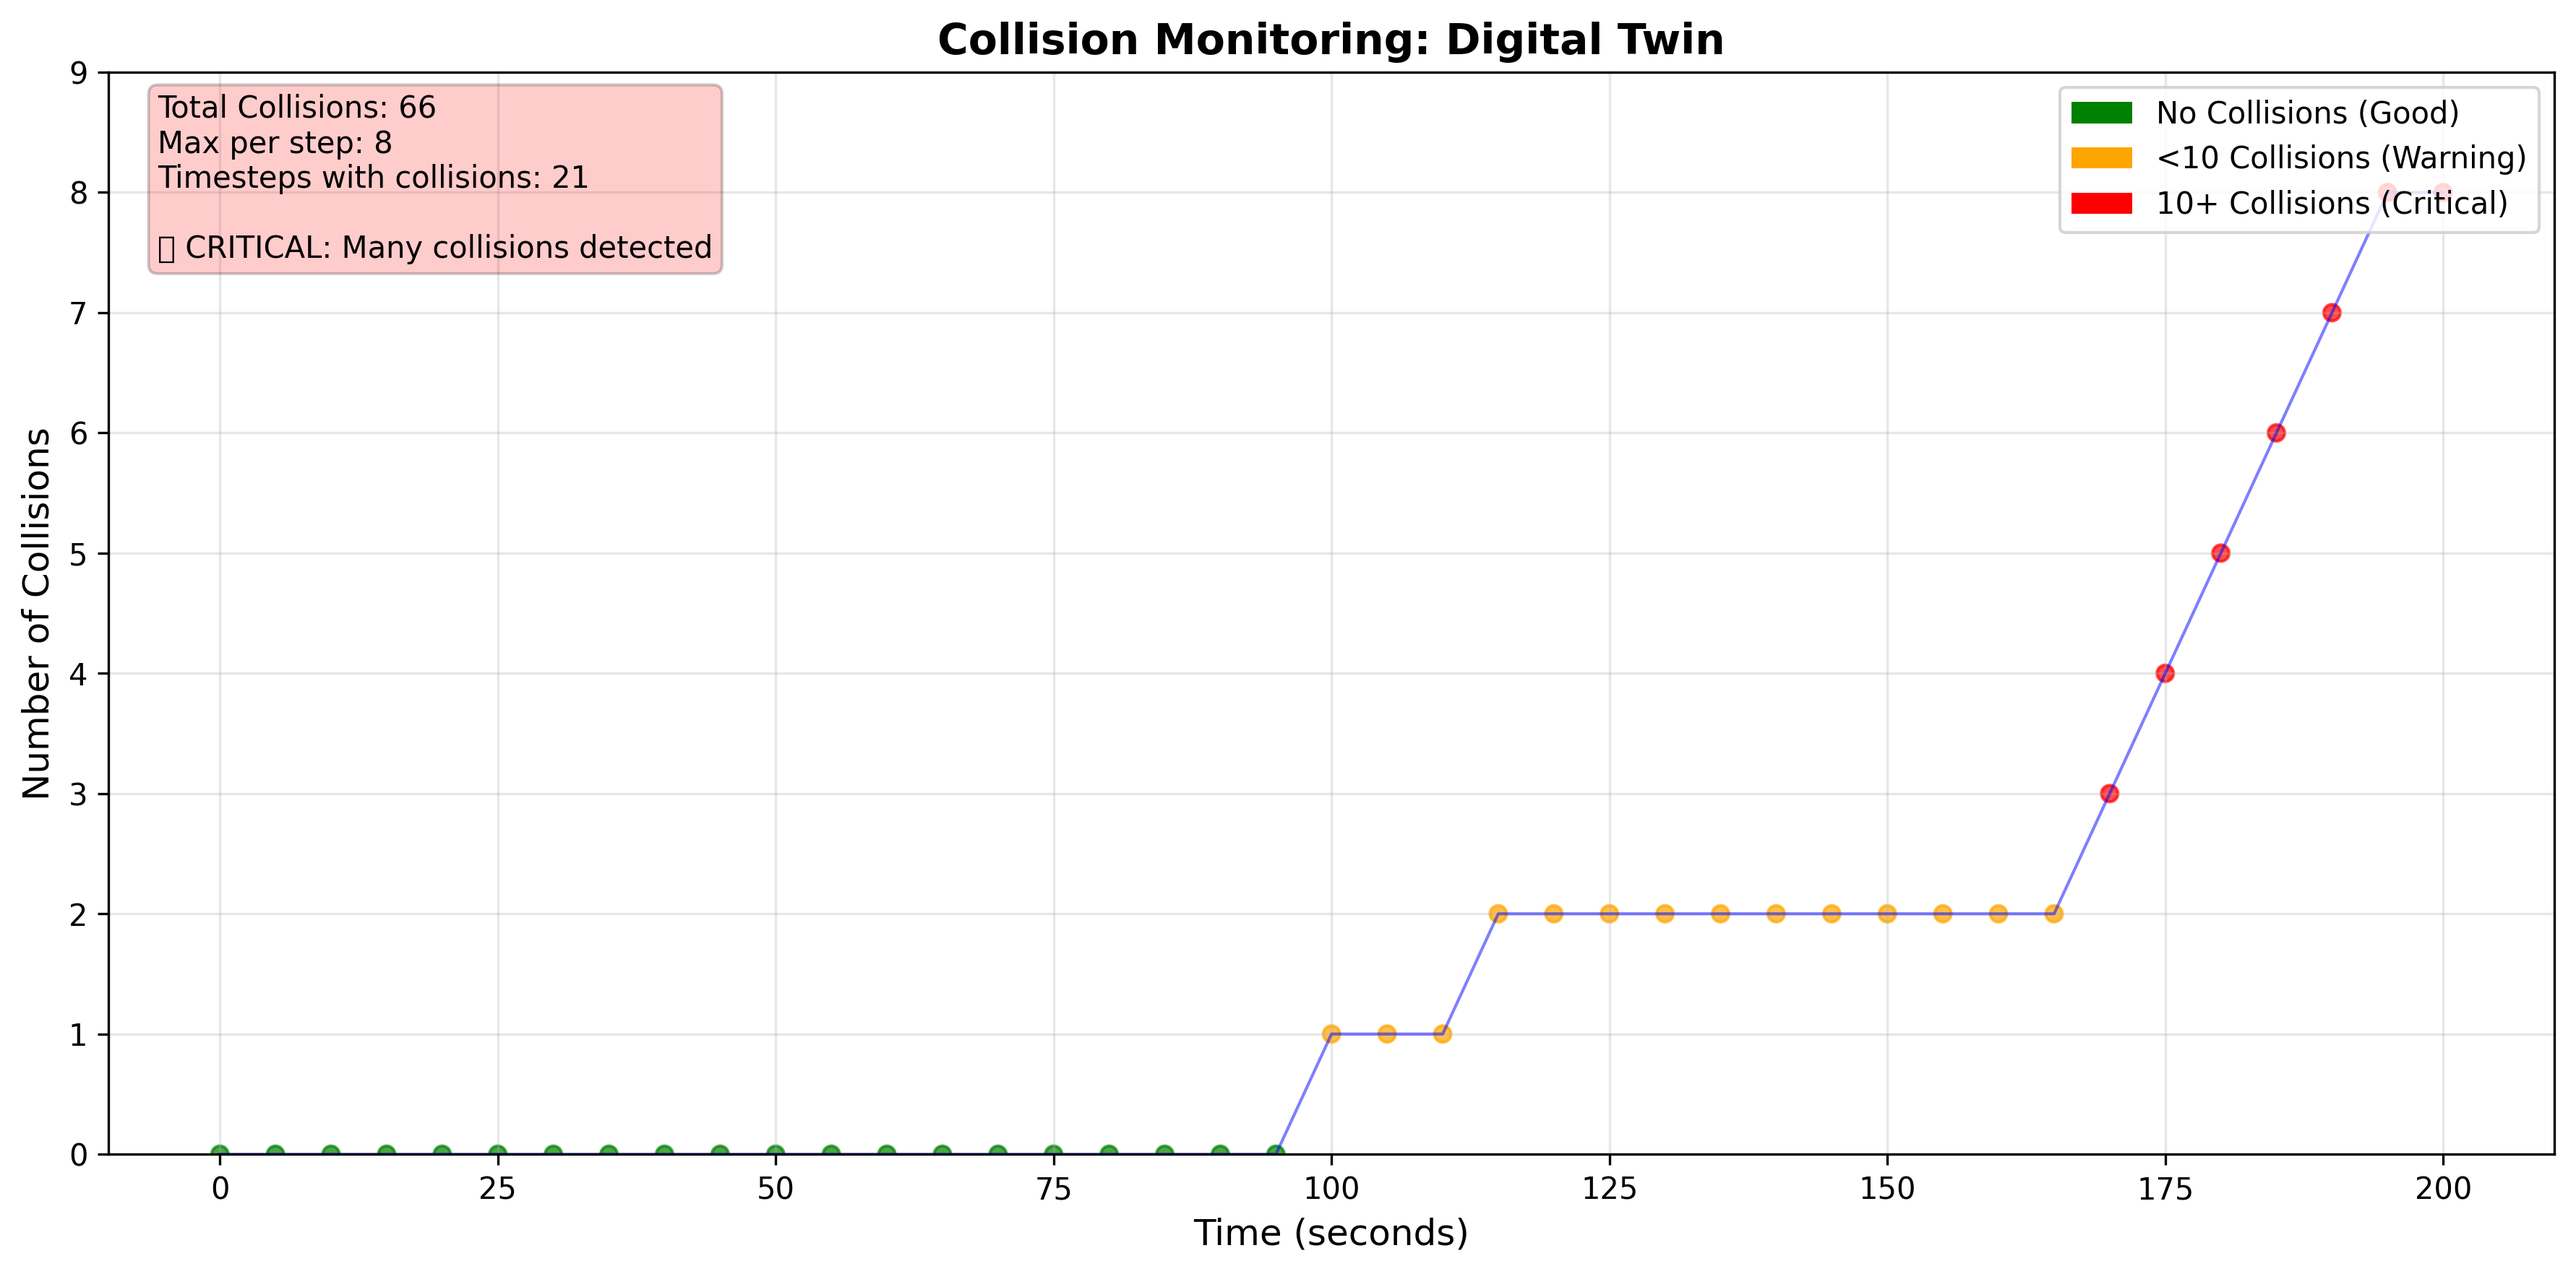
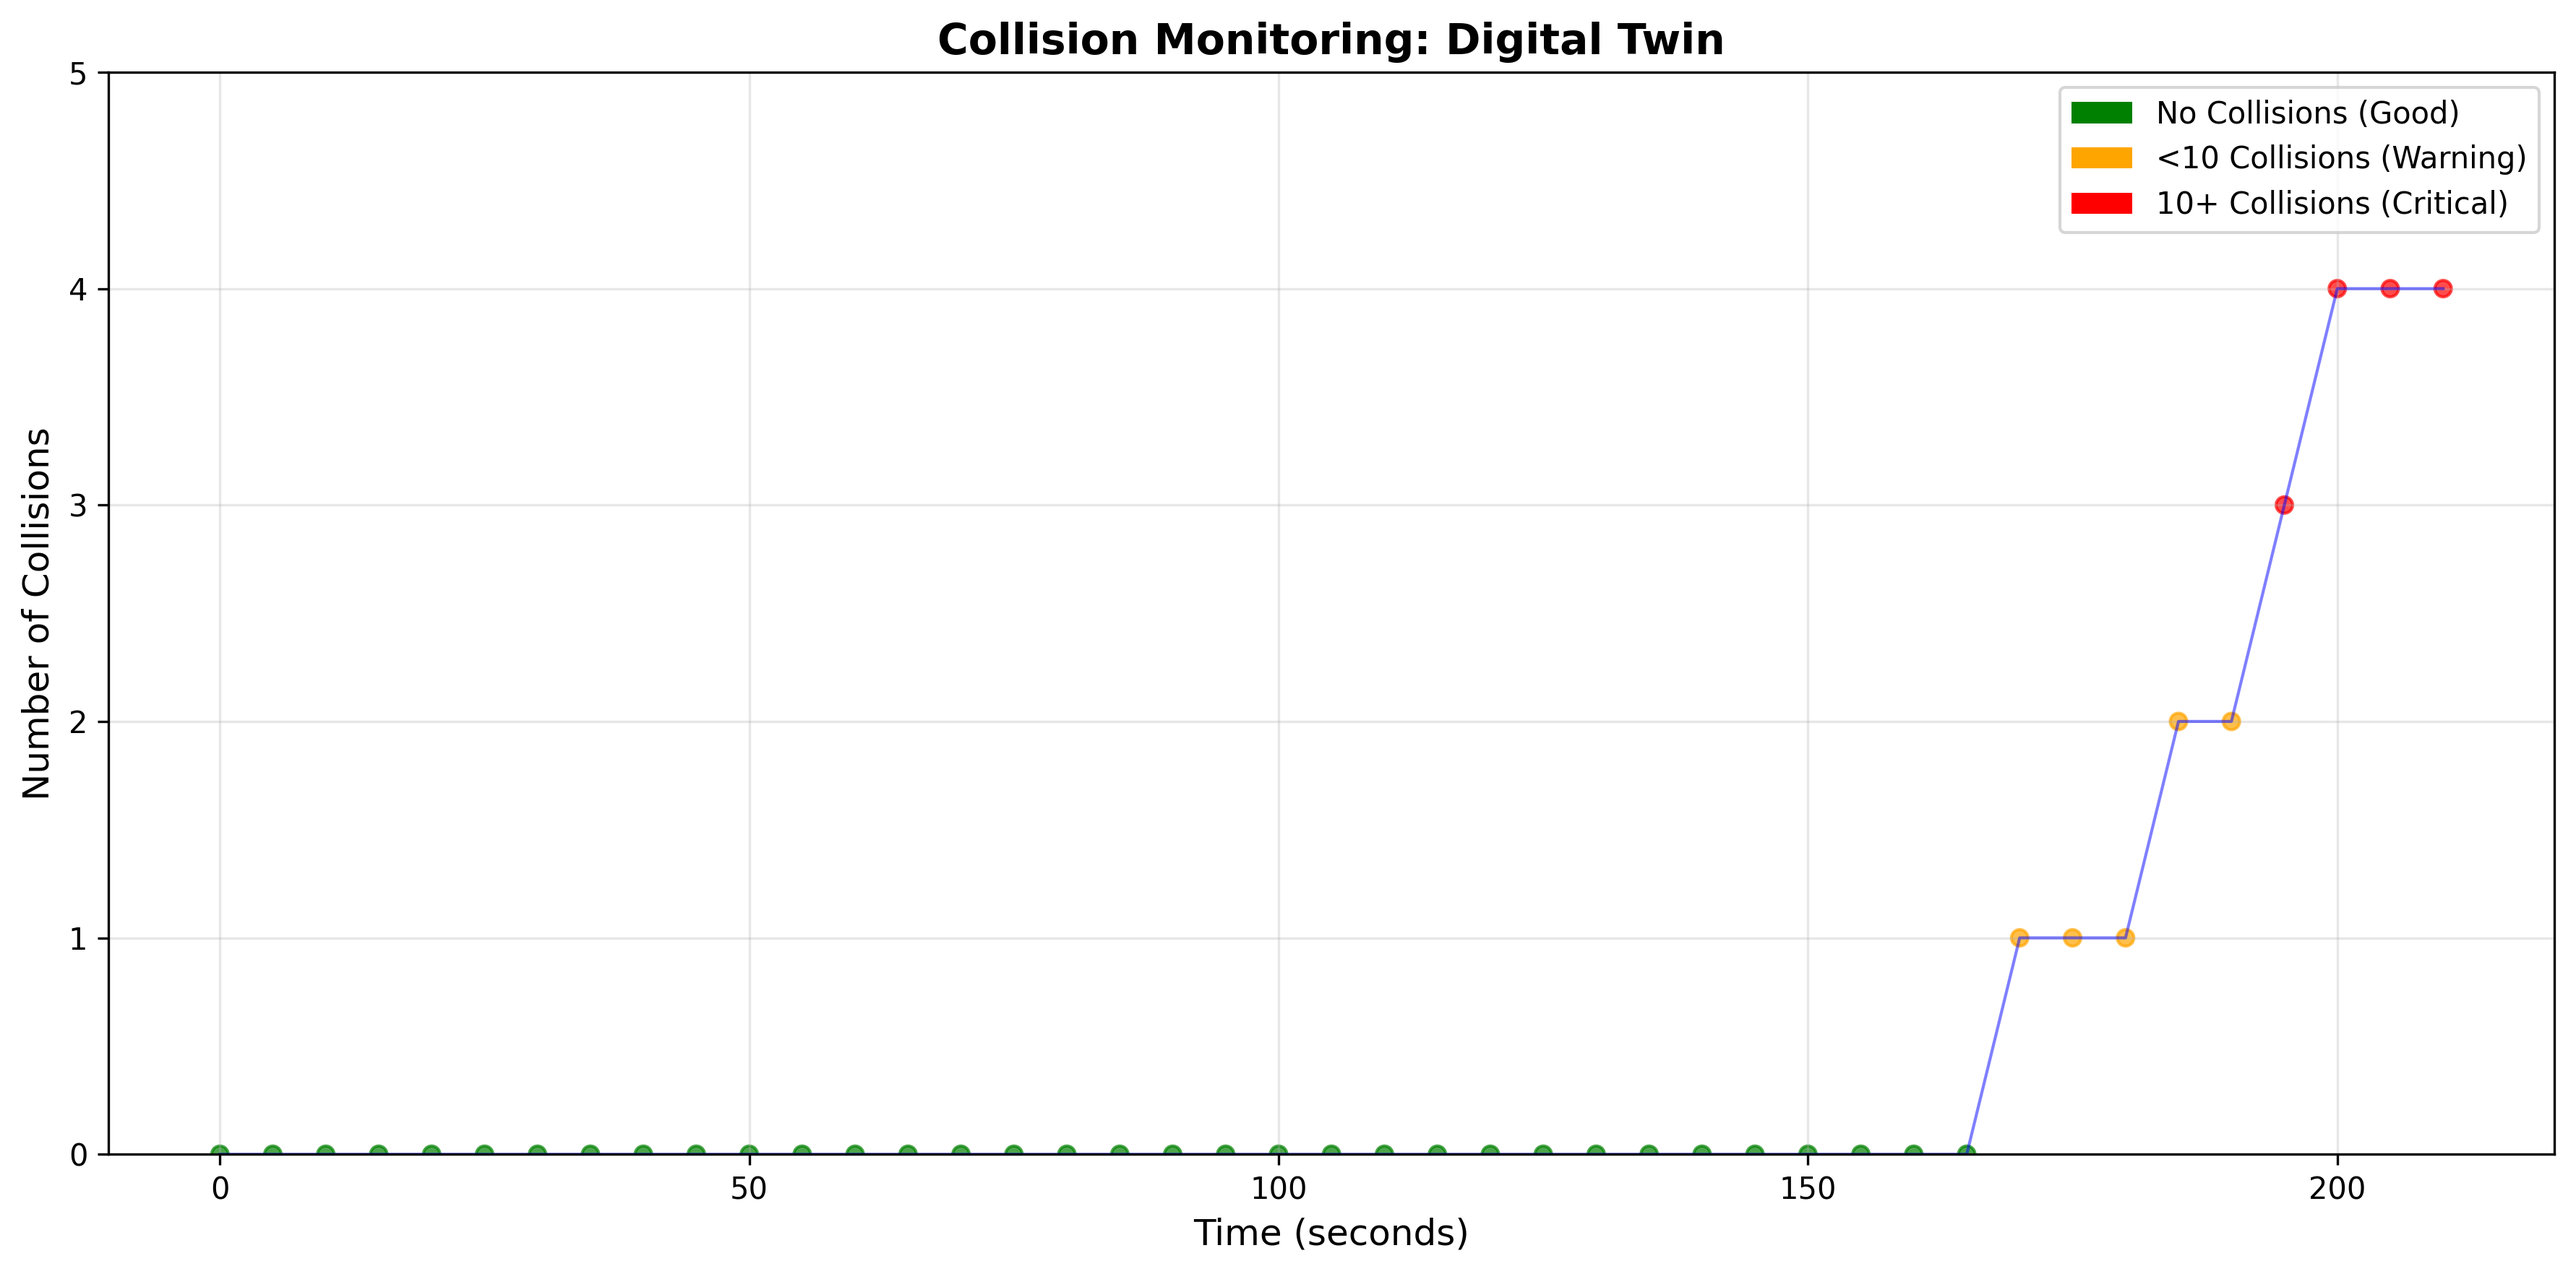
modified params and grpahs

diff --git a/src/robust_simulation_comparison.py b/src/robust_simulation_comparison.py
@@ -515,20 +515,20 @@ def create_collision_plot(timesteps: List[float], collisions: List[int],
     ]
     plt.legend(handles=legend_elements, loc='upper right')
     
-    # Add interpretation text
-    if total_collisions == 0:
-        status = "✅ EXCELLENT: No collisions detected"
-        status_color = "green"
-    elif total_collisions <= 10:
-        status = "⚠ WARNING: Few collisions detected"
-        status_color = "orange"
-    else:
-        status = "❌ CRITICAL: Many collisions detected"
-        status_color = "red"
+    # # Add interpretation text
+    # if total_collisions == 0:
+    #     status = "✅ EXCELLENT: No collisions detected"
+    #     status_color = "green"
+    # elif total_collisions <= 10:
+    #     status = "⚠ WARNING: Few collisions detected"
+    #     status_color = "orange"
+    # else:
+    #     status = "❌ CRITICAL: Many collisions detected"
+    #     status_color = "red"
     
-    stats_text = f'Total Collisions: {total_collisions}\nMax per step: {max_collisions}\nTimesteps with collisions: {collision_timesteps}\n\n{status}'
-    plt.text(0.02, 0.98, stats_text, transform=plt.gca().transAxes, 
-             verticalalignment='top', bbox=dict(boxstyle='round', facecolor=status_color, alpha=0.2))
+    # stats_text = f'Total Collisions: {total_collisions}\nMax per step: {max_collisions}\nTimesteps with collisions: {collision_timesteps}\n\n{status}'
+    # plt.text(0.02, 0.98, stats_text, transform=plt.gca().transAxes, 
+    #          verticalalignment='top', bbox=dict(boxstyle='round', facecolor=status_color, alpha=0.2))
     
     # Set y-axis to start from 0 and add some padding
     plt.ylim(bottom=0, top=max(max_collisions + 1, 1))
